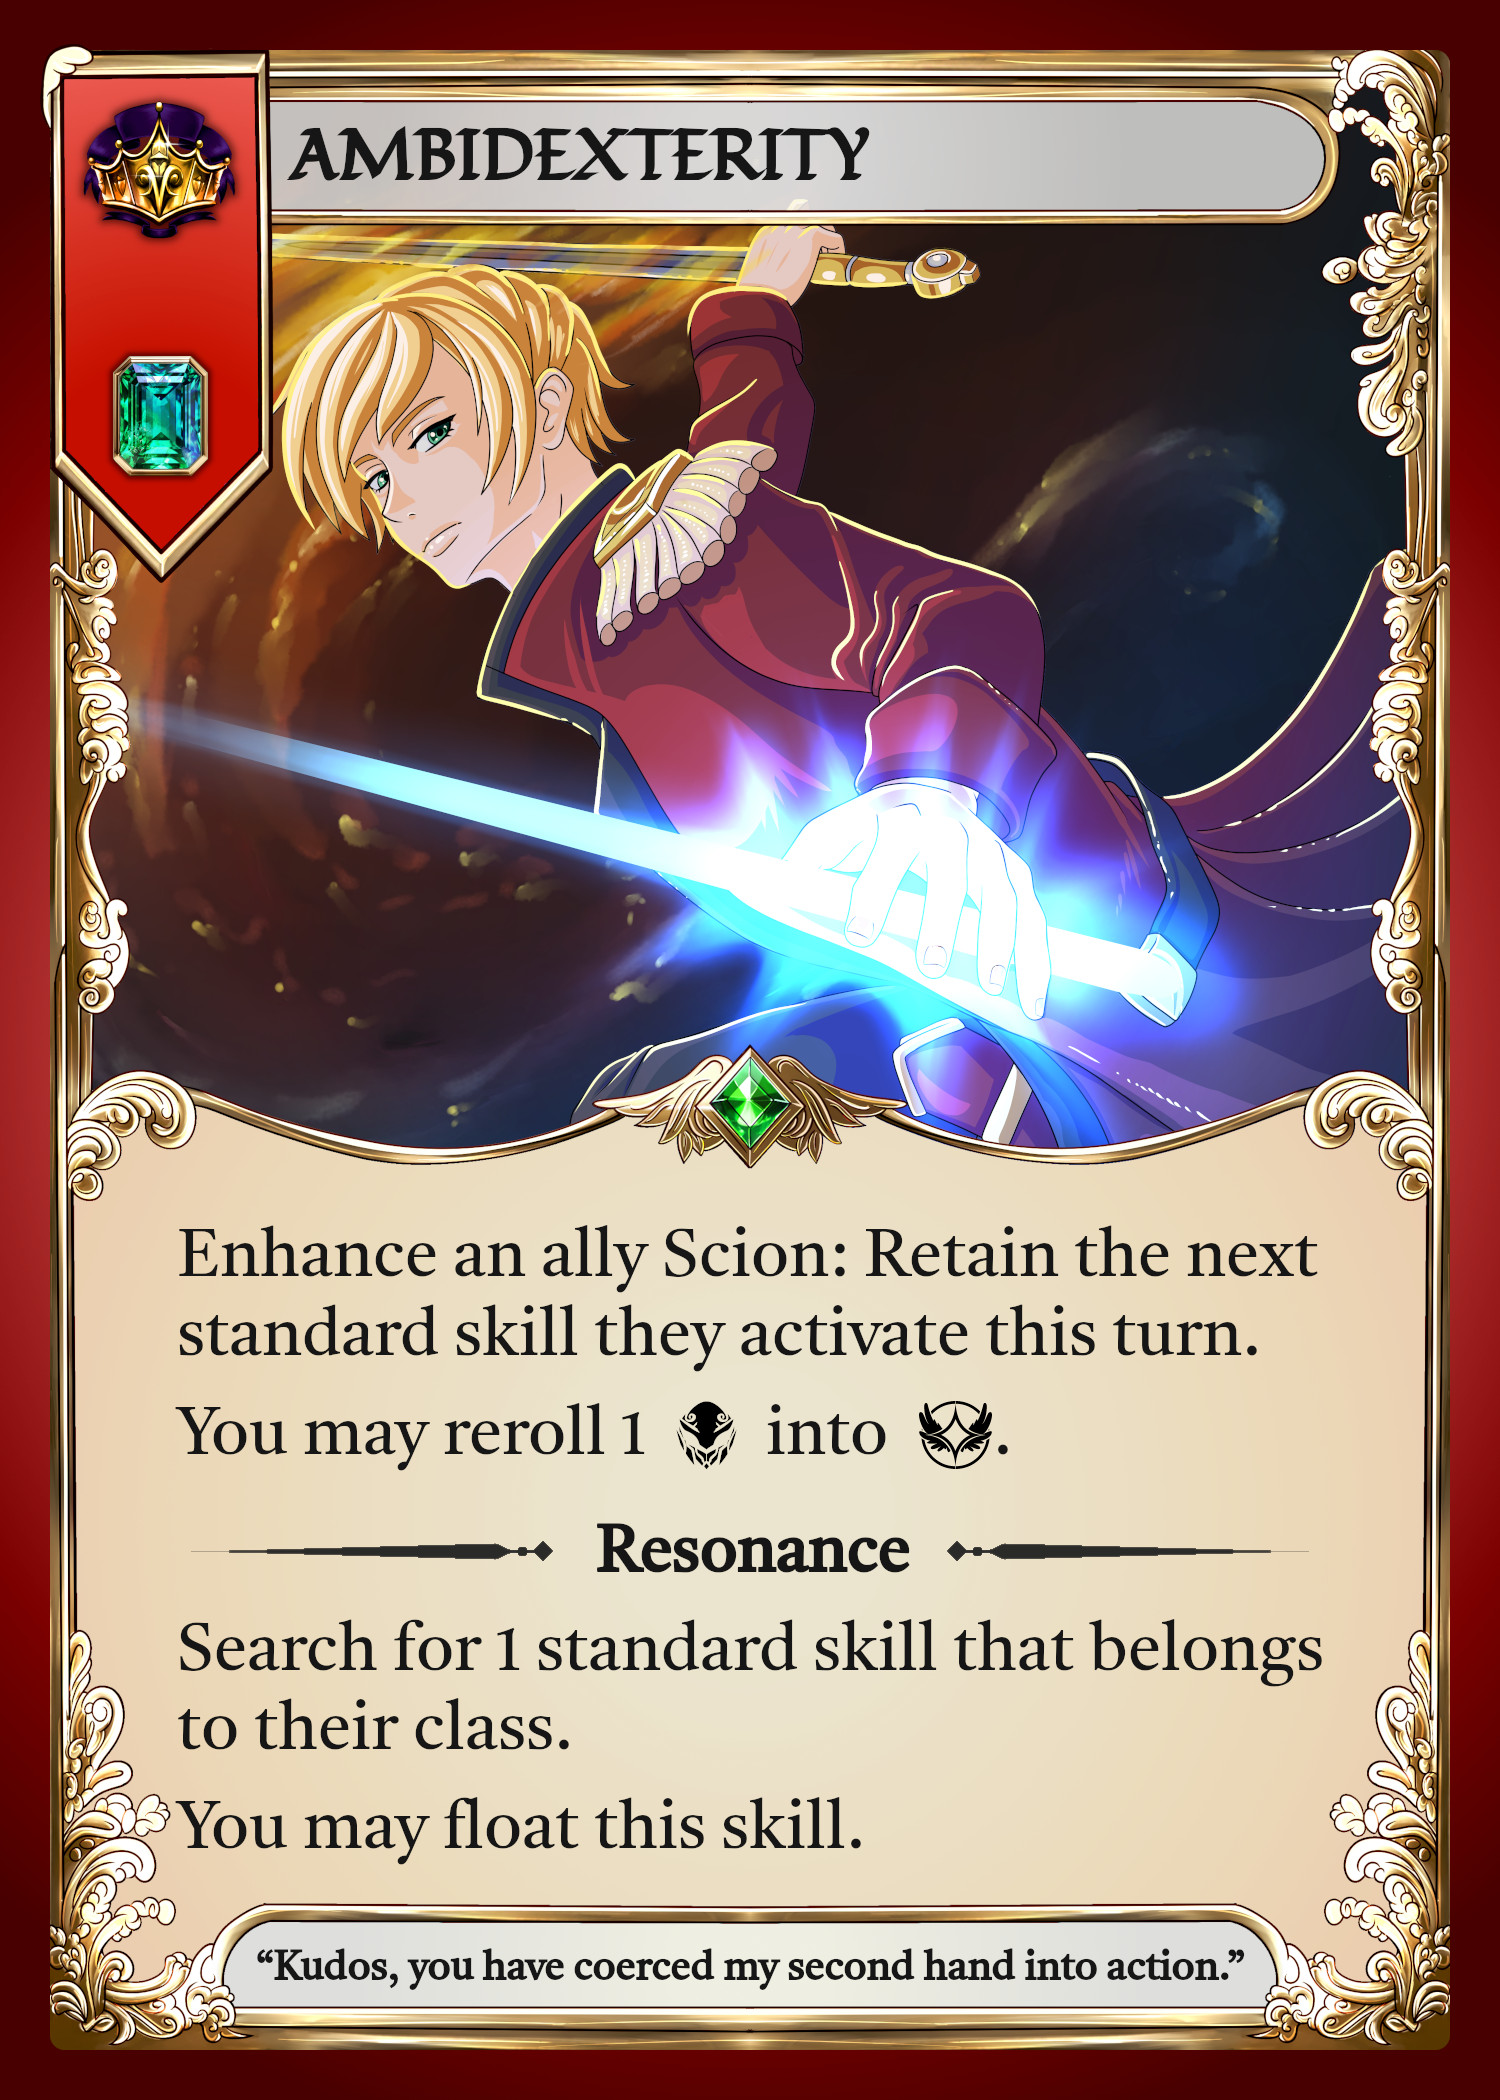
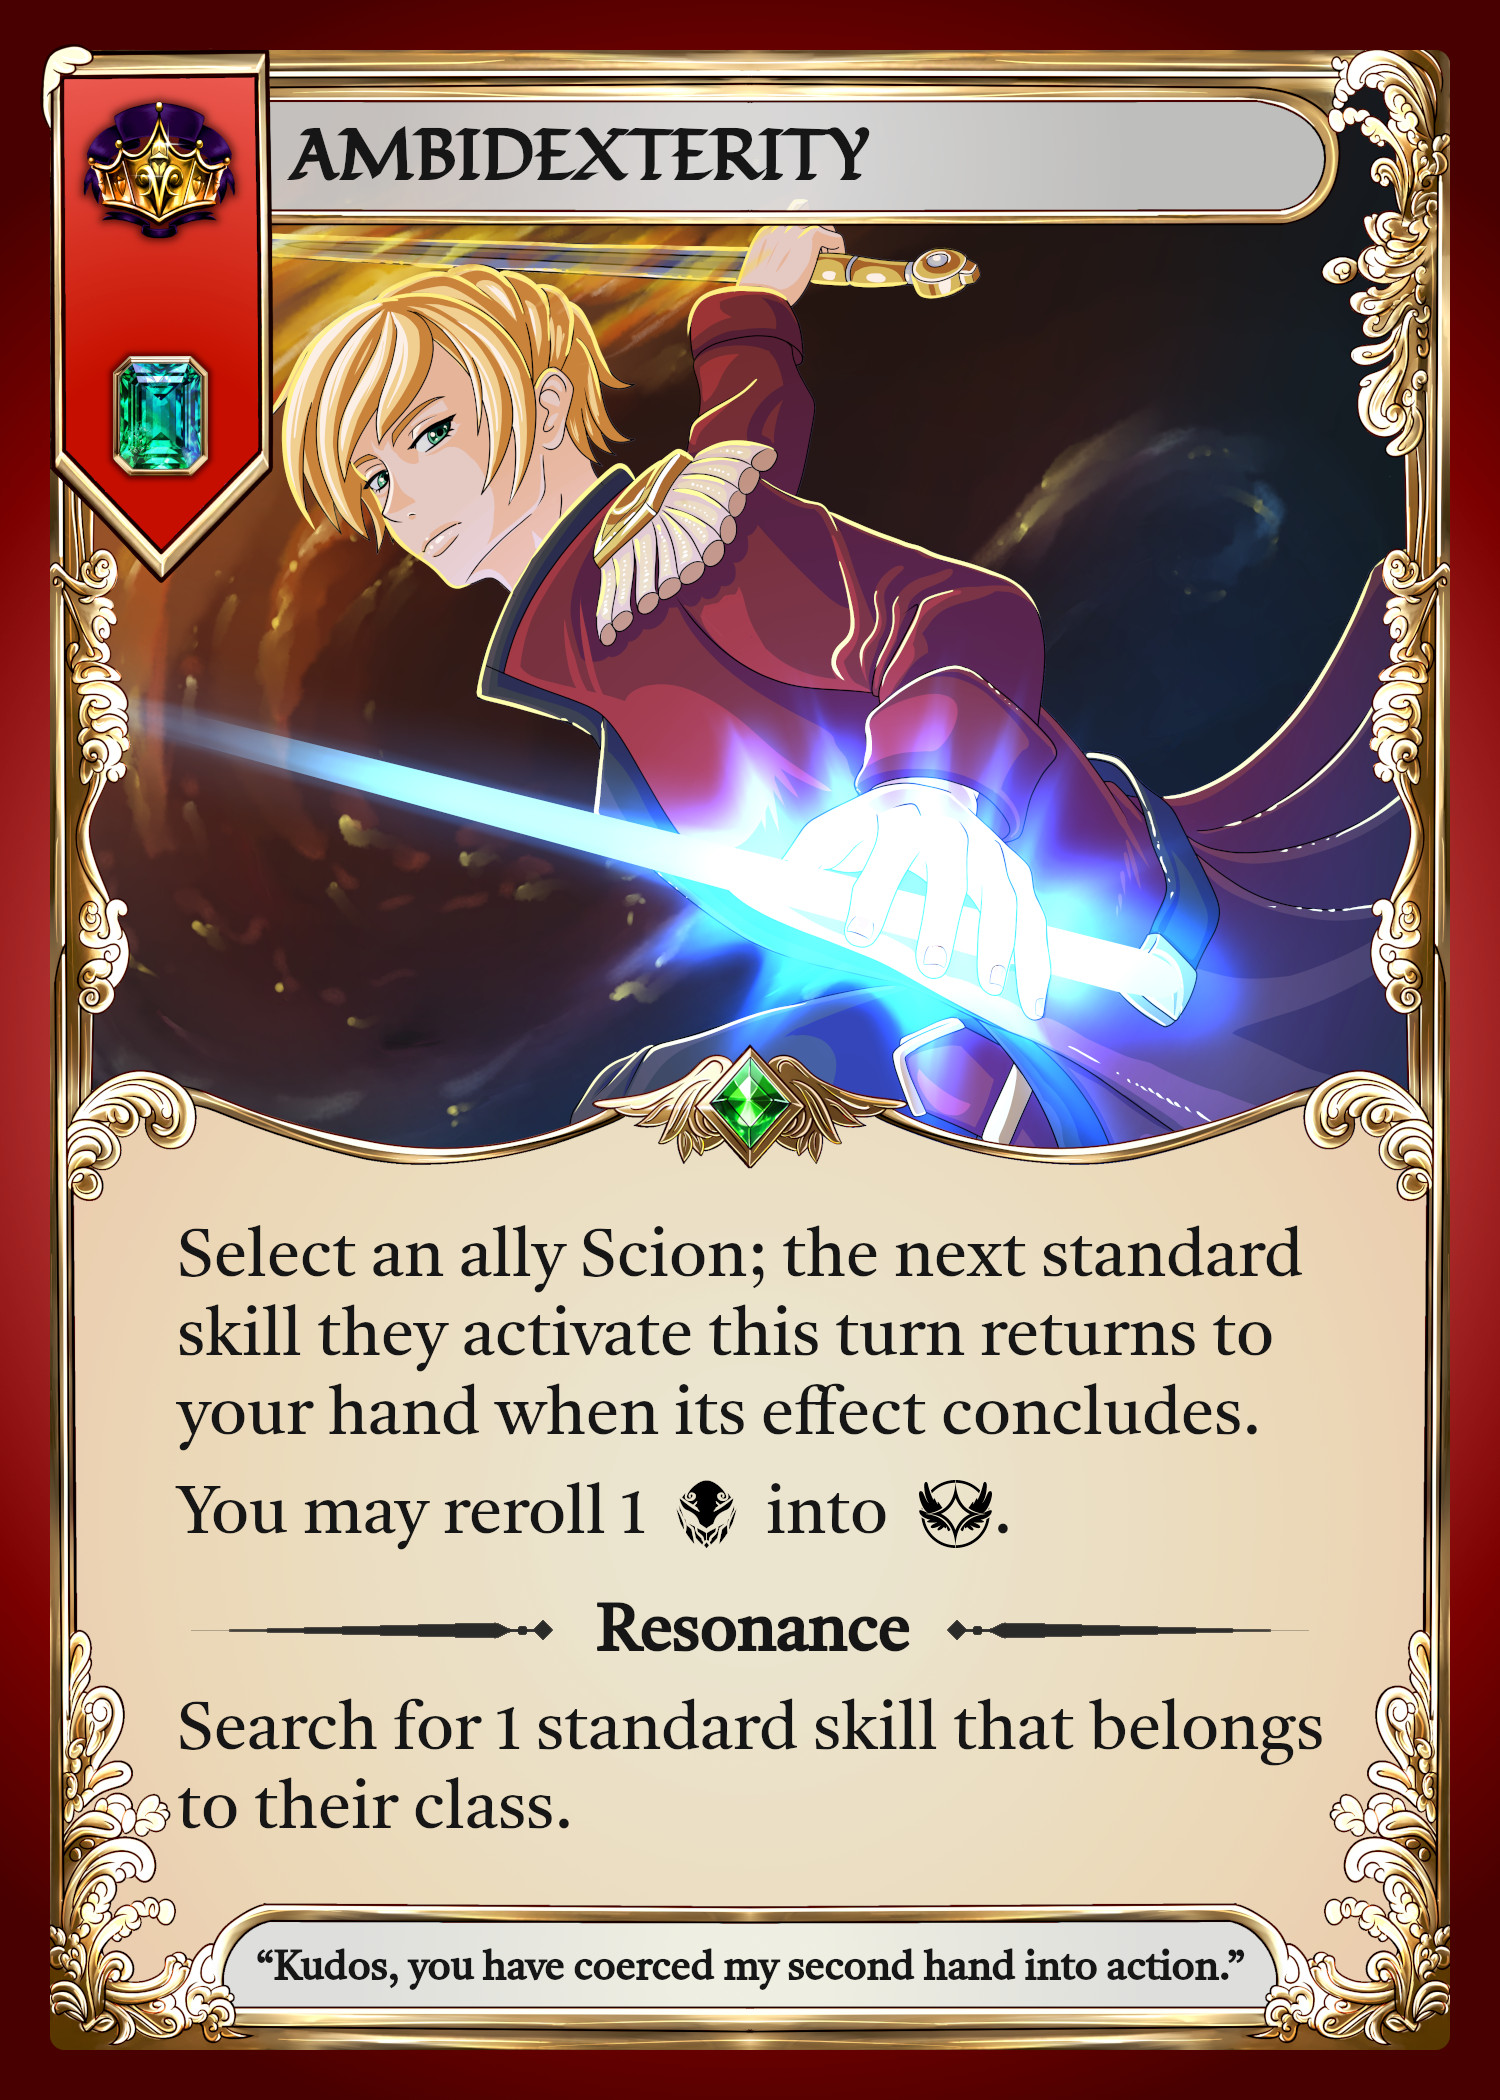
Updated Ambidexterity, Dark Halo, and Transmute

Changed region(s): [[0.1227, 0.5881, 0.8893, 0.8976]]

diff --git a/src/hooks/UseCurrentResolution.jsx b/src/hooks/UseCurrentResolution.jsx
@@ -207,25 +207,54 @@ const UseCurrentResolution = (props) => {
       //end "Resonance Conclusion"
       newGameState.currentResolution.pop();
 
-      if (skillConclusion === "discard") {
-        newGameState[player].skillVestige.push(skill);
-      } else if (skillConclusion === "float") {
-        newGameState[player].skillRepertoire.push(skill);
-        newGameState[player].skillFloat = newGameState[player].skillFloat + 1;
-      } else if (skillConclusion === "retain") {
-        newGameState[player].skillHand.unshift(skill);
+      if (resonator === "SA-03") {
+        newGameState.currentResolution.push({
+          resolution: "Misc.",
+          resolution2: "Dark Halo",
+          player: self,
+          details: {
+            reason: "Dark Halo",
+            title: "Dark Halo",
+            skill: skill,
+            unit: unitInfo,
+            message:
+              "You may discard the resonated skill to search for 1 Burst skill that belongs to the Scion’s class.",
+            no: "Skip",
+            yes: "Search",
+          },
+        });
+
+        //s
+      } else {
+        switch (skillConclusion) {
+          case "discard":
+            newGameState[player].skillVestige.push(skill);
+            break;
+
+          case "float":
+            newGameState[player].skillRepertoire.push(skill);
+            newGameState[player].skillFloat += 1;
+            break;
+
+          case "retain":
+            newGameState[player].skillHand.unshift(skill);
+            break;
+        }
       }
 
-      if (resonator === "SA-03") {
-        newGameState[player].skillHand.unshift(resonator);
-      } else if (resonatorConclusion === "discard") {
-        newGameState[player].skillVestige.push(resonator);
-      } else if (resonatorConclusion === "float") {
-        newGameState[player].skillRepertoire.push(resonator);
-        newGameState[player].skillFloat = newGameState[player].skillFloat + 1;
-      } else if (resonatorConclusion === "retain") {
-        newGameState[player].skillHand.unshift(resonator);
-      }
+      newGameState[player].skillVestige.push(resonator);
+
+      //UPDATE: Resonator is always discarded; keeping code just in case
+      // if (resonator === "SA-03") {
+      //   newGameState[player].skillHand.unshift(resonator);
+      // } else if (resonatorConclusion === "discard") {
+      //   newGameState[player].skillVestige.push(resonator);
+      // } else if (resonatorConclusion === "float") {
+      //   newGameState[player].skillRepertoire.push(resonator);
+      //   newGameState[player].skillFloat = newGameState[player].skillFloat + 1;
+      // } else if (resonatorConclusion === "retain") {
+      //   newGameState[player].skillHand.unshift(resonator);
+      // }
 
       newGameState.activatingSkill.pop();
       newGameState.activatingUnit.pop();
@@ -861,6 +890,7 @@ const UseCurrentResolution = (props) => {
 
         case "End Execution Phase Confirm":
         case "Assault - Avelhem Draw":
+        case "Dark Halo":
           return (
             <>
               {self === lastRes.player && !props.hideModal && (

diff --git a/src/components/modals/YouMayNoYes.jsx b/src/components/modals/YouMayNoYes.jsx
@@ -48,12 +48,19 @@ const YouMayNoYes = (props) => {
   }
 
   const handleNo = () => {
-    let newGameState = JSON.parse(JSON.stringify(localGameState));
-
+    const newGameState = JSON.parse(JSON.stringify(localGameState));
     newGameState.currentResolution.pop();
 
-    if (props.details.reason === "Mitigate Aether-Blast") {
-      newGameState.activatingTarget.pop();
+    switch (props.details.reason) {
+      case "Mitigate Aether-Blast":
+        newGameState.activatingTarget.pop();
+        break;
+
+      case "Dark Halo":
+        newGameState[self].skillRepertoire.push(props.details.skill);
+        newGameState[self].skillFloat += 1;
+
+        break;
     }
 
     dispatch(updateState(newGameState));
@@ -374,6 +381,33 @@ const YouMayNoYes = (props) => {
         );
         break;
 
+      case "Dark Halo":
+        newGameState[self].skillVestige.push(props.details.skill);
+
+        newGameState.currentResolution.push({
+          resolution: "Search Card",
+          player: self,
+          details: {
+            restriction: getScionSet(props.details.unit.unitClass).filter((s) =>
+              allBurstSkills().includes(s)
+            ),
+            exclusion: [],
+            searchTitle: "Dark Halo",
+            searchMessage:
+              "Search for a burst skill that belongs to their class",
+            outcome: "Add",
+            revealTitle: "Dark Halo",
+            revealMessage: "Your opponent has searched for a burst skill.",
+            messageTitle: null,
+            message: null,
+            specMessage: `${
+              self === "host" ? "Gold" : "Silver"
+            } Sovereign has searched for a burst skill.`,
+          },
+        });
+
+        break;
+
       case "Foreshadow Draw": //"Foreshadow Draw"
       case "Foreshadow Draw 2": //"Foreshadow Draw 2"
         newGameState = drawSkill(newGameState);
@@ -396,9 +430,9 @@ const YouMayNoYes = (props) => {
           player: self,
           details: {
             restriction: getScionSet(props.details.unit.unitClass),
-            exclusion: allBurstSkills(),
+            exclusion: null,
             searchTitle: "Fated Rivalry",
-            searchMessage: "Search for skill that belongs to their class",
+            searchMessage: "Search for a skill that belongs to their class",
             outcome: "Add",
             revealTitle: null,
             revealMessage: null,

diff --git a/src/components/modals/UnitInfo.jsx b/src/components/modals/UnitInfo.jsx
@@ -592,7 +592,7 @@ const UnitInfo = (props) => {
                         Ambidexterity (1 turn)
                       </p>
                       <p className="unitInfo-text-desc unitInfo-text-last">
-                        ⬩Next standard skill activated is retained.
+                        ⬩Next standard skill activated returns to hand.
                       </p>
                     </>
                   )}

diff --git a/src/hooks/useSovereignSkillEffects.jsx b/src/hooks/useSovereignSkillEffects.jsx
@@ -240,6 +240,11 @@ export const useSovereignSkillEffects = () => {
     //end "Activating TransmuteR1" resolution
     newGameState.currentResolution.pop();
 
+    newGameState[self].defiancePoints = Math.min(
+      6,
+      newGameState[self].defiancePoints + 4
+    );
+
     for (let skill of skills) {
       const skillCode = skill.substring(0, 2);
 

diff --git a/src/hooks/useRecurringEffects.jsx b/src/hooks/useRecurringEffects.jsx
@@ -414,12 +414,7 @@ export const useRecurringEffects = () => {
       //end Select Resonator resolution
       newGameState.currentResolution.pop();
 
-      if (
-        ![
-          "SA-02",
-          //  "SA-03"
-        ].includes(resonator)
-      ) {
+      if (!["SA-02"].includes(resonator)) {
         conclusion = "float";
       }
 
